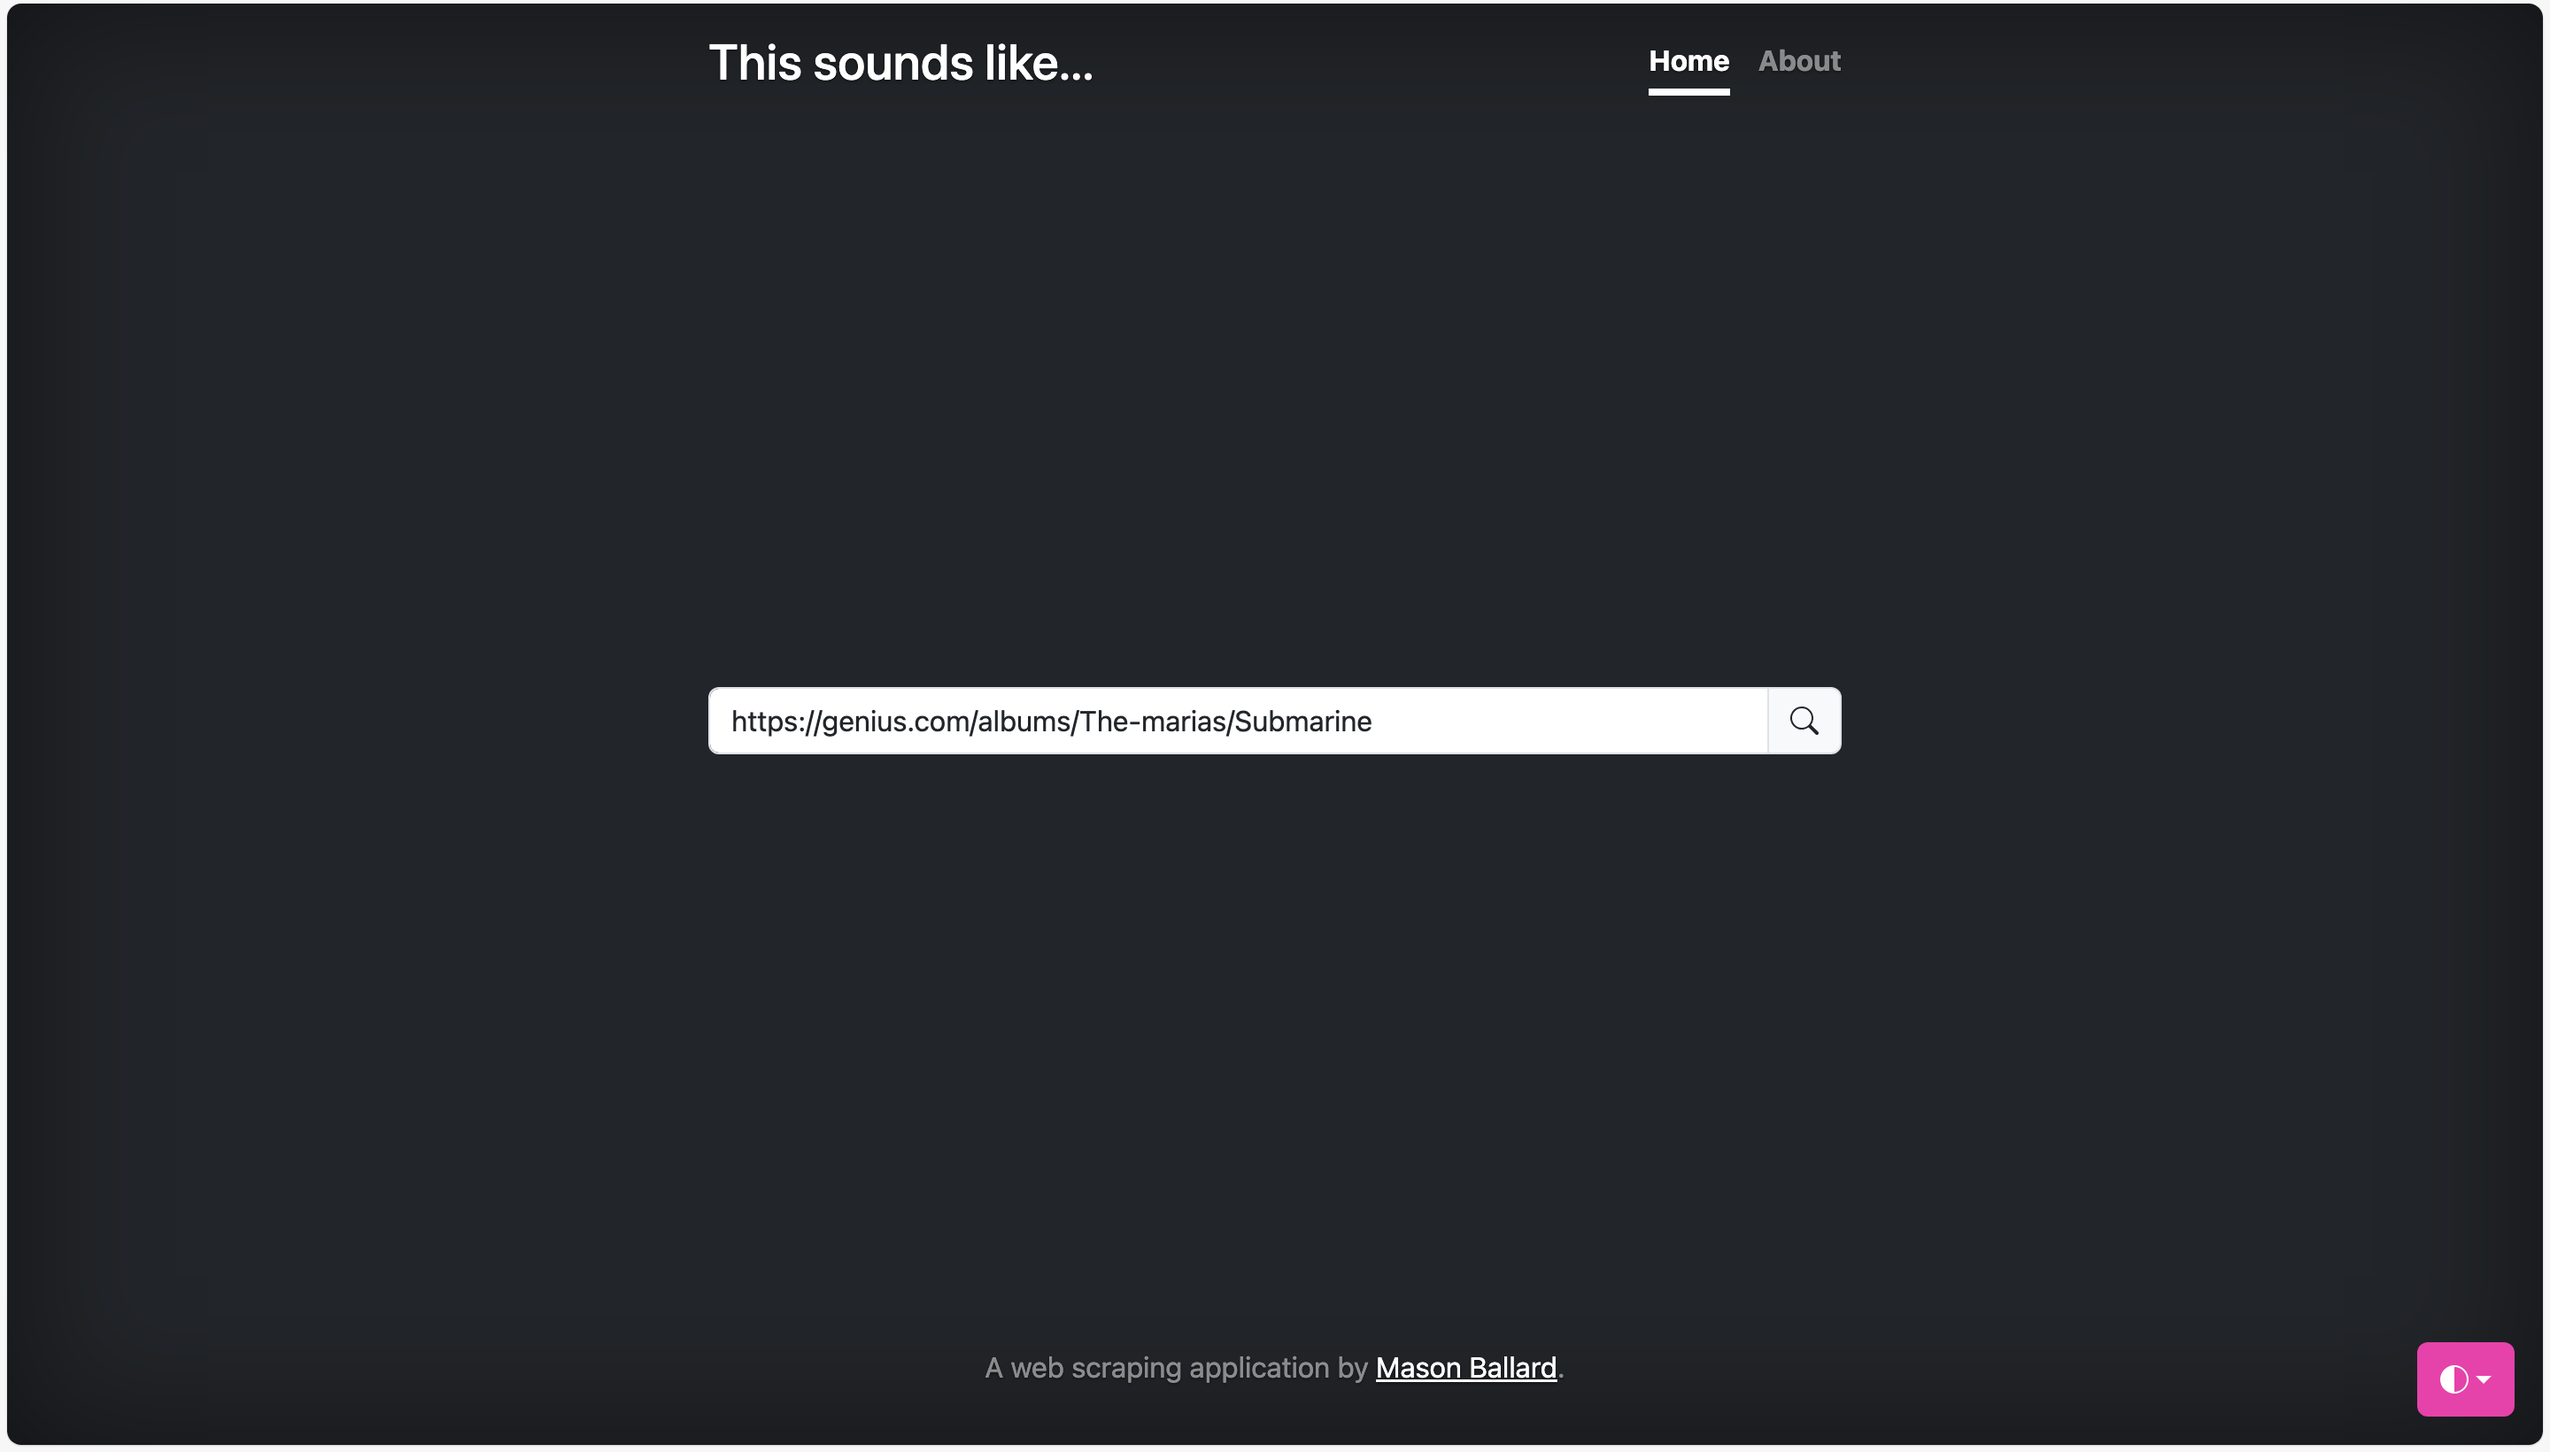
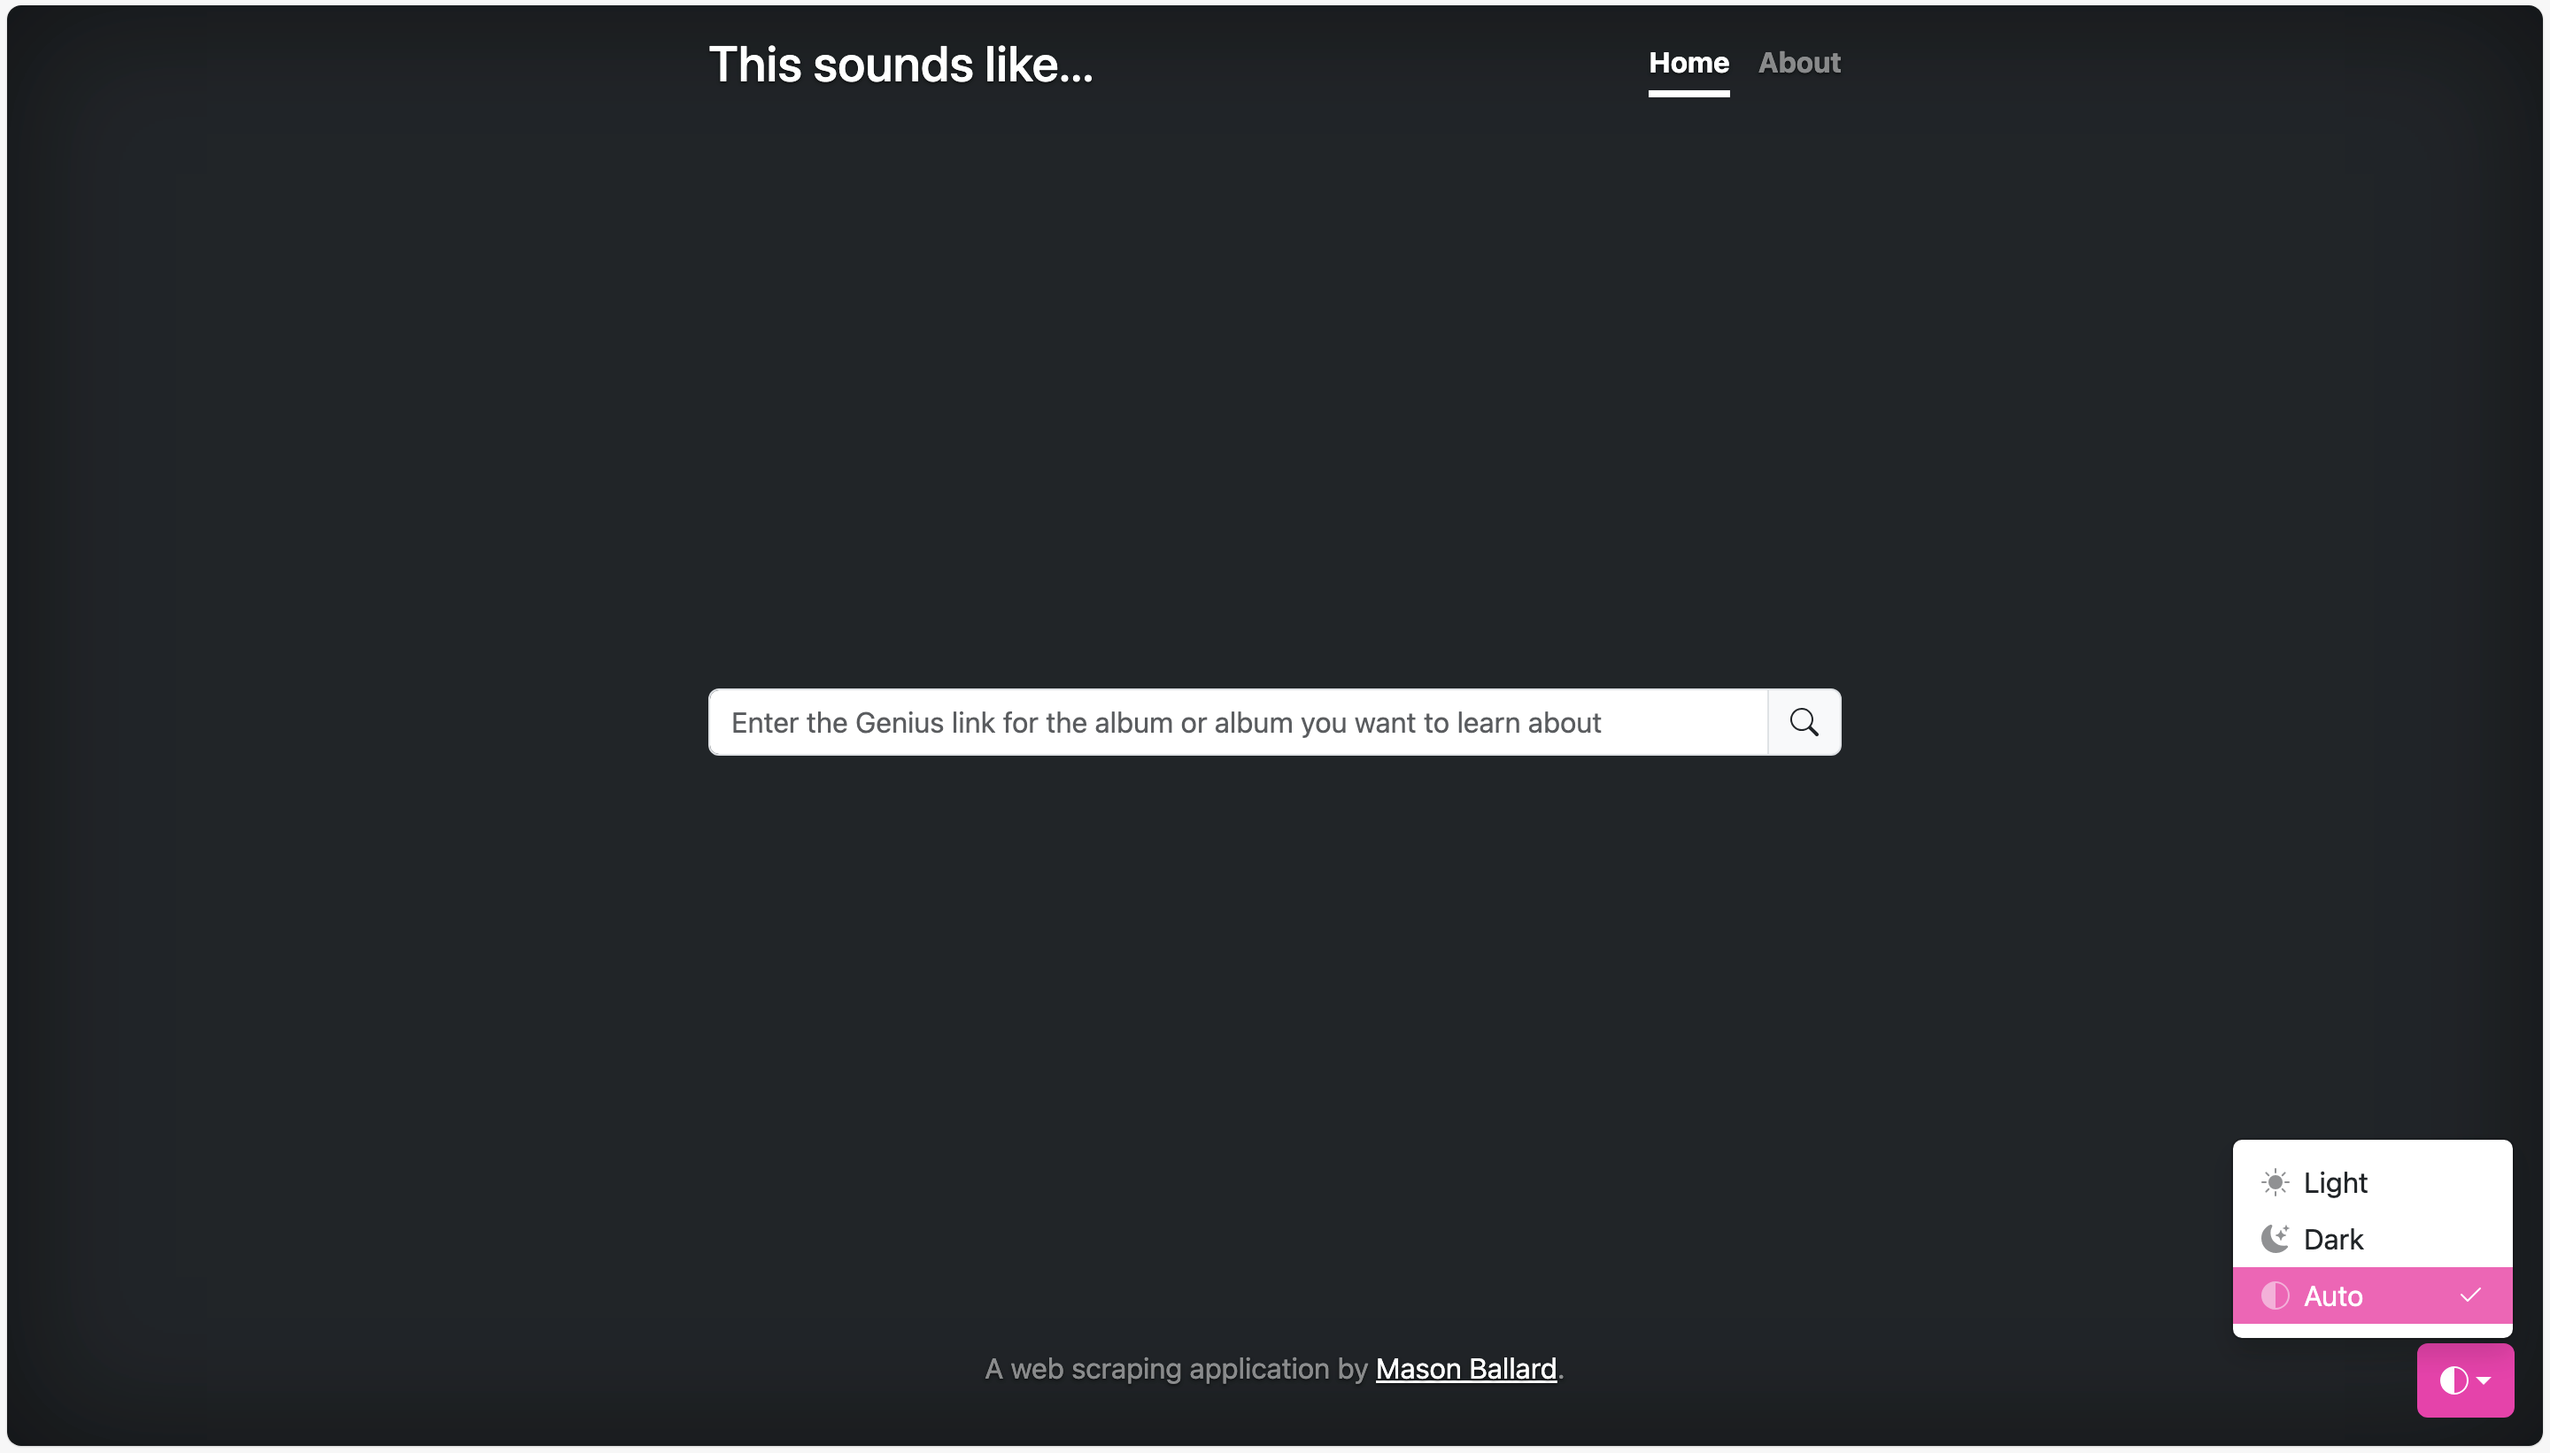
update images and readme, fix color of theme picker

diff --git a/templates/index.html b/templates/index.html
@@ -220,7 +220,7 @@
             class="form-control"
             value="{{ request.form['link'] }}"
             name="link"
-            placeholder="Enter the Genius link for the album you would to learn about"
+            placeholder="Enter the Genius link for the album or album you want to learn about"
             aria-label="Genius Album Link"
             aria-describedby="basic-addon1"> 
           </input>

diff --git a/templates/getSongData.html b/templates/getSongData.html
@@ -110,6 +110,10 @@
         img {
         border-radius: 1%;
         }
+        .dropdown-item.active,
+        .dropdown-item:active {
+            background-color: #ff5bb8;
+        }
     </style>
     </head>
 

diff --git a/templates/getData.html b/templates/getData.html
@@ -118,6 +118,10 @@
       img {
         border-radius: 1%;
       }
+      .dropdown-item.active,
+      .dropdown-item:active {
+          background-color: #ff5bb8;
+      }
     </style>
   </head>
 

diff --git a/README.md b/README.md
@@ -8,10 +8,14 @@ Create and activate a python virtual environment, download dependent packages, s
 ![Landing page](demo-pictures/homescreen.png)
 
 
-Enter a Genius.com album page's url to search for who created and contributed to your favorite tracks, get clues to what tracks your favorite songs sampled, and get a sense of what makes a songwriter's or producer's style unique.
+Enter a Genius.com page's url for an album or song to search for who created and contributed to your favorite tracks, get clues to what tracks your favorite songs sampled, and get a sense of what makes a songwriter's or producer's style unique.
 
 
-![Credits page example](demo-pictures/credits-page.png)
+![Album page example](demo-pictures/credit-page.png)
+
+<br>
+
+![Song view example](demo-pictures/song-view.png)
 
 
 
@@ -39,7 +43,7 @@ Enter a Genius.com album page's url to search for who created and contributed to
 - [x] Extend functionality to work for singles/specific songs (that don't have album links available)
   - sort of: some song pages don't have album artwork links to be scraped
   - treating individual songs to be scraped as singles (hierarchical table structure) can lead to database bloat and (unhelpful) redundancy (higher normalization)(doesn't degrade performance right now)
-  - [ ] is the formatting of an album page still the best presentation of info for individual songs, or does it need a unique layout (path)
+  - [x] is the formatting of an album page still the best presentation of info for individual songs, or does it need a unique layout (path)
 - [x] Change color of color theme selector to something other than blue
 - [ ] Does an album page have a "release date" for albums (versus sporadic release dates listed in credits on each track)?
 - [ ] Utilize Genius's list of alternate album covers to also display on track detail pages
